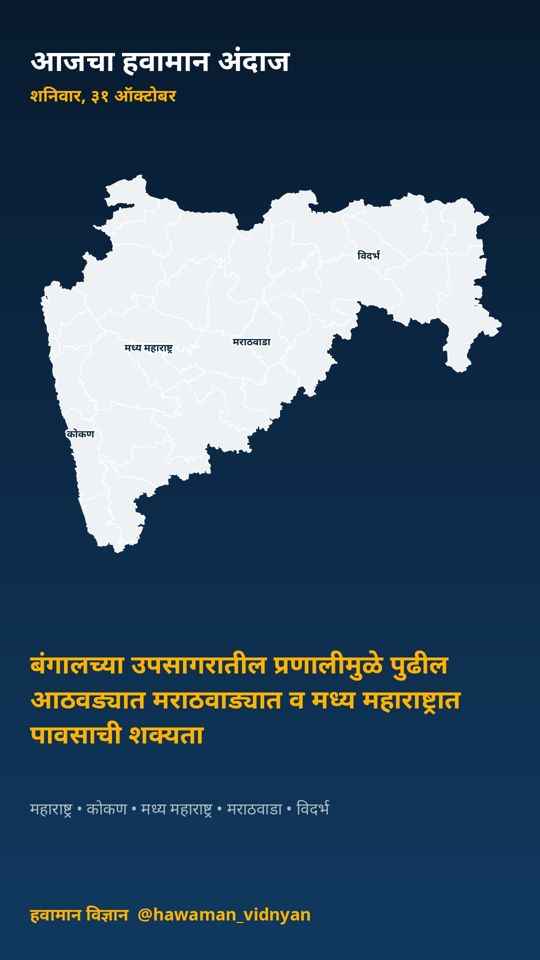
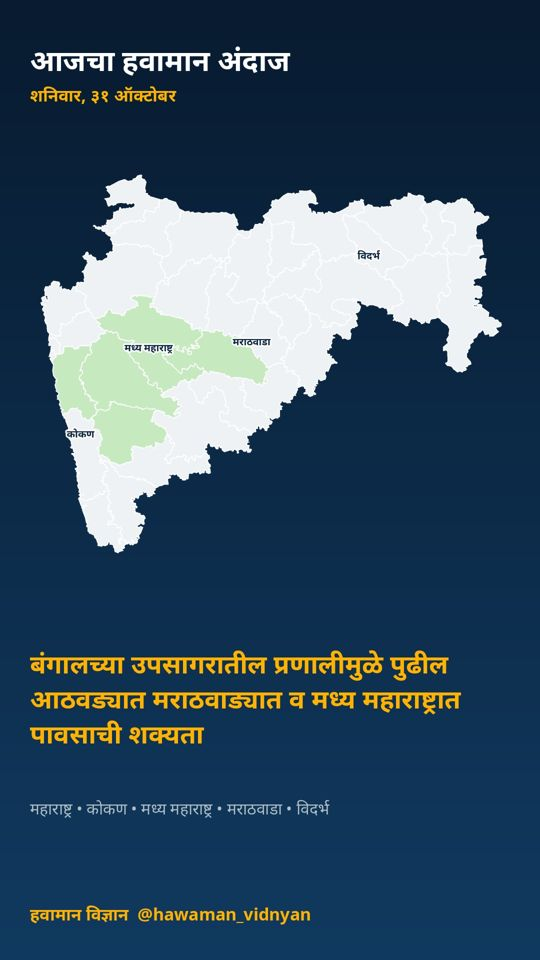
Alert 2026-10-31 (hawaman-vidnyan)

Changed region(s): [[0.0889, 0.3125, 0.5037, 0.5]]

diff --git a/docs/alerts/2026-10-31-hawaman/index.html b/docs/alerts/2026-10-31-hawaman/index.html
@@ -11,12 +11,12 @@
       if (l === 'mr') document.documentElement.lang = 'mr';
     })();
   </script>
-  <title data-mr="पुढील आठवडा (२–८ नोव्हें) | महाराष्ट्र — हवामान इशारा">पुढील आठवडा (२–८ नोव्हें) | महाराष्ट्र — Weather alert</title>
-  <meta name="description" content="Information analysis: पुढील आठवडा (२–८ नोव्हें) | महाराष्ट्र (31 October 2026)">
+  <title data-mr="पुढील आठवडा (३–९ नोव्हें) | महाराष्ट्र — हवामान इशारा">पुढील आठवडा (३–९ नोव्हें) | महाराष्ट्र — Weather alert</title>
+  <meta name="description" content="Information analysis: पुढील आठवडा (३–९ नोव्हें) | महाराष्ट्र (31 October 2026)">
   <link rel="preconnect" href="https://fonts.googleapis.com">
   <link rel="preconnect" href="https://fonts.gstatic.com" crossorigin>
   <link href="https://fonts.googleapis.com/css2?family=Mukta:wght@400;500;600;700&family=Noto+Serif+Devanagari:wght@600;700&display=swap" rel="stylesheet">
-  <link rel="stylesheet" href="../../static/css/style.css?v=fa6833a0">
+  <link rel="stylesheet" href="../../static/css/style.css?v=35c2c467">
 </head>
 <body>
   <header class="site-header">
@@ -47,7 +47,7 @@
   <p class="muted"><a href="../../alerts/index.html"><span class="l-en">← All alerts</span><span class="l-mr" lang="mr">← सर्व इशारे</span></a></p>
   <div class="alert-banner level-info">
     <span class="badge badge-info"><span class="l-en">Information · analysis</span><span class="l-mr" lang="mr">माहितीपर विश्लेषण</span></span>
-    <h1>पुढील आठवडा (२–८ नोव्हें) | महाराष्ट्र</h1>
+    <h1>पुढील आठवडा (३–९ नोव्हें) | महाराष्ट्र</h1>
     <dl class="alert-facts">
       <div><dt><span class="l-en">Date</span><span class="l-mr" lang="mr">दिनांक</span></dt><dd><time datetime="2026-10-31"><span class="l-en">Saturday, 31 October 2026</span><span class="l-mr" lang="mr">शनिवार, ३१ ऑक्टोबर २०२६</span></time></dd></div>
 <div><dt><span class="l-en">Valid</span><span class="l-mr" lang="mr">वैधता</span></dt><dd><span class="l-en">31 October 2026 — Medium-range analysis (4–10 days)</span><span class="l-mr" lang="mr">३१ ऑक्टोबर २०२६ — मध्यम कालावधी विश्लेषण (४–१० दिवस)</span></dd></div><div><dt><span class="l-en">Districts / regions</span><span class="l-mr" lang="mr">जिल्हे/भाग</span></dt><dd><span class="l-en">Konkan</span><span class="l-mr" lang="mr">कोकण</span>, <span class="l-en">Madhya Maharashtra</span><span class="l-mr" lang="mr">मध्य महाराष्ट्र</span>, <span class="l-en">Marathwada</span><span class="l-mr" lang="mr">मराठवाडा</span>, <span class="l-en">Vidarbha</span><span class="l-mr" lang="mr">विदर्भ</span></dd></div>    </dl>
@@ -101,30 +101,29 @@
 </details>  </section>
   <p class="lang-note l-en">This page is written in Marathi.</p><div class="prose" lang="mr"><p><strong>मध्यम कालावधी विश्लेषण (४–१० दिवस)</strong> · वैयक्तिक विश्लेषणावर आधारित</p>
 <p>☔ पावसाची शक्यता:<br />
-🌧 कोकण: अधिक<br />
-🌧 म. महाराष्ट्र: अधिक<br />
-🌧 मराठवाडा: खूप अधिक<br />
-🌧 विदर्भ: अधिक<br />
-🌀 २ नोव्हें रोजी पश्चिम-मध्य बंगालच्या उपसागरात असलेली तीव्र कमी दाबाचे क्षेत्र वायव्येकडे सरकण्याची शक्यता</p>
+🌦 कोकण: मध्यम<br />
+🌦 म. महाराष्ट्र: मध्यम<br />
+🌧 मराठवाडा: अधिक<br />
+🌦 विदर्भ: मध्यम<br />
+🌀 ३ नोव्हें रोजी पश्चिम-मध्य बंगालच्या उपसागरात असलेली चक्रीवादळसदृश प्रणाली पश्चिमेकडे सरकण्याची शक्यता</p>
 <p><img src="../../static/images/alerts/2026-10-31/1_card.jpg" alt="मध्यम कालावधी विश्लेषण (४–१० दिवस)" /></p>
 <h3>हवामानामागचे कारण</h3>
-<p>🌀 वाऱ्यांची स्थिती व कारणमीमांसा:</p>
-<p>• २ नोव्हें रोजी पश्चिम-मध्य बंगालच्या उपसागरात असलेली तीव्र कमी दाबाचे क्षेत्र (डिप्रेशन) वायव्येकडे (महाराष्ट्र) सरकण्याची शक्यता (मॉडेल संकेत; IMD च्या अधिकृत माहितीकडे लक्ष ठेवा). या प्रणालीमुळे राज्यात ढगाळ हवामान व पावसाची शक्यता वाढू शकते</p>
-<p>• पूर्व-मध्य अरबी समुद्रात ५ नोव्हें दरम्यान कमी दाबाचे क्षेत्र तयार होण्याचे संकेत; प्रणाली वायव्येकडे (ईशान्य अरबी समुद्र) सरकण्याची शक्यता<br />
-• महाराष्ट्रावर सुमारे १.५ किमी उंचीवर ईशान्येकडून वारे<br />
+<p>🌀 वाऱ्यांची स्थिती व कारणमीमांसा:<br />
+• ३ नोव्हें रोजी पश्चिम-मध्य बंगालच्या उपसागरात असलेली चक्रीवादळसदृश प्रणाली पश्चिमेकडे (महाराष्ट्र) सरकण्याची शक्यता (मॉडेल संकेत; IMD च्या अधिकृत माहितीकडे लक्ष ठेवा). या प्रणालीमुळे राज्यात ढगाळ हवामान व पावसाची शक्यता वाढू शकते</p>
+<p>• महाराष्ट्रावर सुमारे १.५ किमी उंचीवर ईशान्येकडून कोरडे वारे; हवेच्या मधल्या थरात आर्द्रता फक्त ४३% असल्याने ढग फारसे तयार होत नाहीत<br />
 • पुढील काळात हवेच्या मधल्या थरातील बाष्प कमी होत आहे</p>
 <p>📌 अधिक तपशील:<br />
-🌡 तापमानात विशेष बदल नाही</p>
+🌡 किमान तापमान १° ने घटेल; पहाटे गारवा वाढेल</p>
 <p>ℹ स्रोत: युरोपियन (ECMWF) ५१-सदस्यीय एन्सेम्बल<br />
 ⚠ हे मॉडेल-आधारित विश्लेषण आहे. अधिकृत इशाऱ्यांसाठी भारतीय हवामान विभाग (IMD) व स्थानिक प्रशासनाच्या सूचना पाहा.</p>
 <p><img src="../../static/images/alerts/2026-10-31/2_circulation_chart.jpg" alt="वाऱ्यांची स्थिती व दाब प्रणाली" /></p>
 <h2>सविस्तर हवामान विश्लेषण</h2>
 <h3>अल्पकालीन विश्लेषण (१–३ दिवस)</h3>
-<p>नमस्कार! आज शनिवार, ३१ ऑक्टोबर. पाहूया महाराष्ट्राचे हवामान विश्लेषण. कोकण: कोरडे हवामान. कमाल तापमान सुमारे ३४ आणि किमान २२ अंश सेल्सिअस. मध्य महाराष्ट्र: कोरडे हवामान. कमाल तापमान सुमारे ३३ आणि किमान २१ अंश सेल्सिअस. मराठवाडा: कोरडे हवामान. कमाल तापमान सुमारे ३२ आणि किमान २० अंश सेल्सिअस. विदर्भ: कोरडे हवामान. कमाल तापमान सुमारे ३१ आणि किमान २१ अंश सेल्सिअस. आता पाहूया हवामानामागचे कारण, म्हणजेच वाऱ्यांची स्थिती. अंदमान समुद्रात कमी दाबाचे क्षेत्र आहे; ते तीव्र कमी दाबाचे क्षेत्र (डिप्रेशन) म्हणून तीव्र होण्याचे संकेत; प्रणाली पश्चिमेकडे (पश्चिम-मध्य बंगालचा उपसागर) सरकण्याची शक्यता (मॉडेल संकेत; IMD च्या अधिकृत माहितीकडे लक्ष ठेवा). पूर्व-मध्य अरबी समुद्रात चक्राकार वाऱ्यांची स्थिती आहे; ते कमी दाबाचे क्षेत्र म्हणून तीव्र होण्याचे संकेत. मध्य भारतावर कमी दाबाचे क्षेत्र आहे; प्रणाली आग्नेयेकडे (पूर्व भारत) सरकण्याची शक्यता. महाराष्ट्रावर सुमारे १.५ किमी उंचीवर ईशान्येकडून वारे.</p>
+<p>नमस्कार! आज शनिवार, ३१ ऑक्टोबर. पाहूया महाराष्ट्राचे हवामान विश्लेषण. कोकण: तुरळक ठिकाणी हलका पाऊस. कमाल तापमान सुमारे ३३ आणि किमान २२ अंश सेल्सिअस. मध्य महाराष्ट्र: काही ठिकाणी हलका पाऊस. कमाल तापमान सुमारे ३२ आणि किमान २० अंश सेल्सिअस. मराठवाडा: तुरळक ठिकाणी हलका पाऊस. कमाल तापमान सुमारे ३२ आणि किमान २१ अंश सेल्सिअस. विदर्भ: कोरडे हवामान. कमाल तापमान सुमारे ३१ आणि किमान २० अंश सेल्सिअस. आता पाहूया हवामानामागचे कारण, म्हणजेच वाऱ्यांची स्थिती. आग्नेय बंगालच्या उपसागरात कमी दाबाचे क्षेत्र आहे; ते चक्रीवादळसदृश प्रणाली म्हणून तीव्र होण्याचे संकेत; प्रणाली वायव्येकडे (पश्चिम-मध्य बंगालचा उपसागर) सरकण्याची शक्यता (मॉडेल संकेत; IMD च्या अधिकृत माहितीकडे लक्ष ठेवा). आग्नेय अरबी समुद्रात ३१ ऑक्टो दरम्यान कमी दाबाचे क्षेत्र तयार होण्याचे संकेत; प्रणाली पश्चिमेकडे (पश्चिम-मध्य अरबी समुद्र) सरकण्याची शक्यता. महाराष्ट्रावर सुमारे १.५ किमी उंचीवर पूर्वेकडून वारे.</p>
 <h3>मध्यम कालावधी विश्लेषण (४–१० दिवस)</h3>
-<p>आता पुढील आठवड्याचा, म्हणजे २–८ नोव्हें या काळाचे विश्लेषण. युरोपियन हवामान केंद्राच्या ५१ वेगवेगळ्या संभाव्य मॉडेल-परिणामांवर आधारित. कोकण: पावसाची शक्यता अधिक (२ नोव्हें जास्त). मध्य महाराष्ट्र: पावसाची शक्यता अधिक (२ नोव्हें जास्त). मराठवाडा: पावसाची शक्यता खूप अधिक (३ नोव्हें जास्त). विदर्भ: पावसाची शक्यता अधिक (३ नोव्हें जास्त).  तापमानात विशेष बदल नाही. या काळातील वाऱ्यांची स्थिती: २ नोव्हें रोजी पश्चिम-मध्य बंगालच्या उपसागरात असलेली तीव्र कमी दाबाचे क्षेत्र (डिप्रेशन) वायव्येकडे (महाराष्ट्र) सरकण्याची शक्यता (मॉडेल संकेत; IMD च्या अधिकृत माहितीकडे लक्ष ठेवा). या प्रणालीमुळे राज्यात ढगाळ हवामान व पावसाची शक्यता वाढू शकते. पूर्व-मध्य अरबी समुद्रात ५ नोव्हें दरम्यान कमी दाबाचे क्षेत्र तयार होण्याचे संकेत; प्रणाली वायव्येकडे (ईशान्य अरबी समुद्र) सरकण्याची शक्यता. महाराष्ट्रावर सुमारे १.५ किमी उंचीवर ईशान्येकडून वारे. पुढील काळात हवेच्या मधल्या थरातील बाष्प कमी होत आहे.</p>
+<p>आता पुढील आठवड्याचा, म्हणजे ३–९ नोव्हें या काळाचे विश्लेषण. युरोपियन हवामान केंद्राच्या ५१ वेगवेगळ्या संभाव्य मॉडेल-परिणामांवर आधारित. कोकण: पावसाची शक्यता मध्यम (३ नोव्हें जास्त). मध्य महाराष्ट्र: पावसाची शक्यता मध्यम (३ नोव्हें जास्त). मराठवाडा: पावसाची शक्यता अधिक (३ नोव्हें जास्त). विदर्भ: पावसाची शक्यता मध्यम (४ नोव्हें जास्त).  किमान तापमान १° ने घटेल; पहाटे गारवा वाढेल. या काळातील वाऱ्यांची स्थिती: ३ नोव्हें रोजी पश्चिम-मध्य बंगालच्या उपसागरात असलेली चक्रीवादळसदृश प्रणाली पश्चिमेकडे (महाराष्ट्र) सरकण्याची शक्यता (मॉडेल संकेत; IMD च्या अधिकृत माहितीकडे लक्ष ठेवा). या प्रणालीमुळे राज्यात ढगाळ हवामान व पावसाची शक्यता वाढू शकते. महाराष्ट्रावर सुमारे १.५ किमी उंचीवर ईशान्येकडून कोरडे वारे; हवेच्या मधल्या थरात आर्द्रता फक्त ४३% असल्याने ढग फारसे तयार होत नाहीत. पुढील काळात हवेच्या मधल्या थरातील बाष्प कमी होत आहे.</p>
 <h3>विस्तारित विश्लेषण (२–४ आठवडे)</h3>
-<p>आता पुढील तीन आठवड्यांचा विस्तारित विश्लेषण. आठवडा १, २–८ नोव्हें: म. महाराष्ट्र, मराठवाडा, विदर्भ: पाऊस जास्त. तापमान सरासरीपेक्षा १.५ अंश जास्त राहण्याची शक्यता. आठवडा २, ९–१५ नोव्हें: राज्यभर पाऊस सरासरीपेक्षा कमी. तापमान सरासरीपेक्षा ०.७ अंश जास्त राहण्याची शक्यता. आठवडा ३, १६–२२ नोव्हें: पाऊस सरासरीइतका. तापमान सरासरीपेक्षा १.० अंश जास्त राहण्याची शक्यता. वाऱ्यांचा प्रवाह: ६–१३ नोव्हें: महाराष्ट्रावर ईशान्येकडून वारे कायम (५१ पैकी ५१ सदस्य); पूर्व/ईशान्येकडील वारे सहसा कोरडे हवामान आणतात. भारतीय हवामान विभाग व आयआयटीएम पुणे यांचे विस्तारित कालावधी नकाशेही हेच संकेत तपासण्यासाठी पाहा.</p>
+<p>आता पुढील तीन आठवड्यांचा विस्तारित विश्लेषण. आठवडा १, २–८ नोव्हें: कोकण, म. महाराष्ट्र, मराठवाडा: पाऊस जास्त. तापमान सरासरीपेक्षा १.३ अंश जास्त राहण्याची शक्यता. आठवडा २, ९–१५ नोव्हें: राज्यभर पाऊस सरासरीपेक्षा कमी. तापमान सरासरीपेक्षा ०.७ अंश जास्त राहण्याची शक्यता. आठवडा ३, १६–२२ नोव्हें: पाऊस सरासरीइतका. तापमान सरासरीपेक्षा १.१ अंश जास्त राहण्याची शक्यता. वाऱ्यांचा प्रवाह: ७–१४ नोव्हें: महाराष्ट्रावर ईशान्येकडून वारे कायम (५१ पैकी ५१ सदस्य); पूर्व/ईशान्येकडील वारे सहसा कोरडे हवामान आणतात. भारतीय हवामान विभाग व आयआयटीएम पुणे यांचे विस्तारित कालावधी नकाशेही हेच संकेत तपासण्यासाठी पाहा.</p>
 <h3>हंगामी विश्लेषण (१–३ महिने)</h3>
 <p>आता नोव्हेंबर ते जानेवारी या हंगामाचा दीर्घकालीन विश्लेषण. नोव्हेंबर: तापमान सरासरीपेक्षा बरेच जास्त, सुमारे +२.५ अंश; पाऊस सरासरीइतका. डिसेंबर: तापमान सरासरीपेक्षा बरेच जास्त, सुमारे +२.३ अंश; पाऊस सरासरीइतका. जानेवारी: तापमान सरासरीपेक्षा बरेच जास्त, सुमारे +२.१ अंश; पाऊस सरासरीइतका. प्रशांत महासागरात तीव्र एल निनो (नीनो-३.४: +३.४°से); तो अजून बळकट होत आहे. एल निनोमुळे येणारा हिवाळा सहसा उबदार; थंडीच्या लाटा कमी.</p>
 <p>हे मॉडेल-आधारित विश्लेषण आहे. अधिकृत इशाऱ्यांसाठी भारतीय हवामान विभाग (IMD) व स्थानिक प्रशासनाच्या सूचना पाहा.</p>

diff --git a/docs/index.html b/docs/index.html
@@ -16,7 +16,7 @@
   <link rel="preconnect" href="https://fonts.googleapis.com">
   <link rel="preconnect" href="https://fonts.gstatic.com" crossorigin>
   <link href="https://fonts.googleapis.com/css2?family=Mukta:wght@400;500;600;700&family=Noto+Serif+Devanagari:wght@600;700&display=swap" rel="stylesheet">
-  <link rel="stylesheet" href="./static/css/style.css?v=fa6833a0">
+  <link rel="stylesheet" href="./static/css/style.css?v=35c2c467">
 </head>
 <body>
   <header class="site-header">
@@ -45,7 +45,7 @@
   <main class="wrap main">
 <section class="hero">
   <div class="hero-photo">
-    <img src="./static/images/profile.jpg?v=fa6833a0" alt="Arvind Pagire" width="200" height="200">
+    <img src="./static/images/profile.jpg?v=35c2c467" alt="Arvind Pagire" width="200" height="200">
   </div>
   <div class="hero-text">
     <p class="eyebrow"><span class="l-en">Meteorologist · AI-based weather prediction · Hybrid modelling</span><span class="l-mr" lang="mr">हवामानशास्त्रज्ञ · AI-आधारित हवामान अंदाज · हायब्रिड मॉडेलिंग</span></p>
@@ -78,7 +78,7 @@
     <span class="badge badge-info"><span class="l-en">Information · analysis</span><span class="l-mr" lang="mr">माहितीपर विश्लेषण</span></span>
     <time datetime="2026-10-31" class="muted"><span class="l-en">Saturday, 31 October 2026</span><span class="l-mr" lang="mr">शनिवार, ३१ ऑक्टोबर २०२६</span></time>
   </div>
-  <h3><a href="./alerts/2026-10-31-hawaman/index.html">पुढील आठवडा (२–८ नोव्हें) | महाराष्ट्र</a></h3>
+  <h3><a href="./alerts/2026-10-31-hawaman/index.html">पुढील आठवडा (३–९ नोव्हें) | महाराष्ट्र</a></h3>
 <p class="alert-meta"><strong><span class="l-en">Districts / regions:</span><span class="l-mr" lang="mr">जिल्हे/भाग:</span></strong> <span class="l-en">Konkan</span><span class="l-mr" lang="mr">कोकण</span>, <span class="l-en">Madhya Maharashtra</span><span class="l-mr" lang="mr">मध्य महाराष्ट्र</span>, <span class="l-en">Marathwada</span><span class="l-mr" lang="mr">मराठवाडा</span>, <span class="l-en">Vidarbha</span><span class="l-mr" lang="mr">विदर्भ</span></p><p class="alert-meta"><strong><span class="l-en">Valid:</span><span class="l-mr" lang="mr">वैधता:</span></strong> <span class="l-en">31 October 2026 — Medium-range analysis (4–10 days)</span><span class="l-mr" lang="mr">३१ ऑक्टोबर २०२६ — मध्यम कालावधी विश्लेषण (४–१० दिवस)</span></p></article>
     <p class="stale-note muted" data-date="2026-10-31" hidden>
       <span class="l-en">Note: this alert is from 31 October 2026; today&#39;s alert has not been published yet.</span><span class="l-mr" lang="mr">टीप: हा इशारा ३१ ऑक्टोबर २०२६ रोजीचा आहे; आजचा इशारा अद्याप प्रसिद्ध झालेला नाही.</span></p>

diff --git a/docs/alerts/index.html b/docs/alerts/index.html
@@ -16,7 +16,7 @@
   <link rel="preconnect" href="https://fonts.googleapis.com">
   <link rel="preconnect" href="https://fonts.gstatic.com" crossorigin>
   <link href="https://fonts.googleapis.com/css2?family=Mukta:wght@400;500;600;700&family=Noto+Serif+Devanagari:wght@600;700&display=swap" rel="stylesheet">
-  <link rel="stylesheet" href="../static/css/style.css?v=fa6833a0">
+  <link rel="stylesheet" href="../static/css/style.css?v=35c2c467">
 </head>
 <body>
   <header class="site-header">
@@ -63,7 +63,7 @@
     <span class="badge badge-info"><span class="l-en">Information · analysis</span><span class="l-mr" lang="mr">माहितीपर विश्लेषण</span></span>
     <time datetime="2026-10-31" class="muted"><span class="l-en">Saturday, 31 October 2026</span><span class="l-mr" lang="mr">शनिवार, ३१ ऑक्टोबर २०२६</span></time>
   </div>
-  <h3><a href="../alerts/2026-10-31-hawaman/index.html">पुढील आठवडा (२–८ नोव्हें) | महाराष्ट्र</a></h3>
+  <h3><a href="../alerts/2026-10-31-hawaman/index.html">पुढील आठवडा (३–९ नोव्हें) | महाराष्ट्र</a></h3>
 <p class="alert-meta"><strong><span class="l-en">Districts / regions:</span><span class="l-mr" lang="mr">जिल्हे/भाग:</span></strong> <span class="l-en">Konkan</span><span class="l-mr" lang="mr">कोकण</span>, <span class="l-en">Madhya Maharashtra</span><span class="l-mr" lang="mr">मध्य महाराष्ट्र</span>, <span class="l-en">Marathwada</span><span class="l-mr" lang="mr">मराठवाडा</span>, <span class="l-en">Vidarbha</span><span class="l-mr" lang="mr">विदर्भ</span></p><p class="alert-meta"><strong><span class="l-en">Valid:</span><span class="l-mr" lang="mr">वैधता:</span></strong> <span class="l-en">31 October 2026 — Medium-range analysis (4–10 days)</span><span class="l-mr" lang="mr">३१ ऑक्टोबर २०२६ — मध्यम कालावधी विश्लेषण (४–१० दिवस)</span></p></article><article class="alert-card level-yellow">
   <div class="alert-card-top">
     <span class="badge badge-yellow"><span class="l-en">Yellow alert · Be updated</span><span class="l-mr" lang="mr">पिवळा इशारा · अद्ययावत राहा</span></span>

diff --git a/docs/alerts/2026-10-25-hawaman/index.html b/docs/alerts/2026-10-25-hawaman/index.html
@@ -16,7 +16,7 @@
   <link rel="preconnect" href="https://fonts.googleapis.com">
   <link rel="preconnect" href="https://fonts.gstatic.com" crossorigin>
   <link href="https://fonts.googleapis.com/css2?family=Mukta:wght@400;500;600;700&family=Noto+Serif+Devanagari:wght@600;700&display=swap" rel="stylesheet">
-  <link rel="stylesheet" href="../../static/css/style.css?v=fa6833a0">
+  <link rel="stylesheet" href="../../static/css/style.css?v=35c2c467">
 </head>
 <body>
   <header class="site-header">

diff --git a/docs/alerts/2026-10-26-hawaman/index.html b/docs/alerts/2026-10-26-hawaman/index.html
@@ -16,7 +16,7 @@
   <link rel="preconnect" href="https://fonts.googleapis.com">
   <link rel="preconnect" href="https://fonts.gstatic.com" crossorigin>
   <link href="https://fonts.googleapis.com/css2?family=Mukta:wght@400;500;600;700&family=Noto+Serif+Devanagari:wght@600;700&display=swap" rel="stylesheet">
-  <link rel="stylesheet" href="../../static/css/style.css?v=fa6833a0">
+  <link rel="stylesheet" href="../../static/css/style.css?v=35c2c467">
 </head>
 <body>
   <header class="site-header">

diff --git a/docs/alerts/2026-10-27-hawaman/index.html b/docs/alerts/2026-10-27-hawaman/index.html
@@ -16,7 +16,7 @@
   <link rel="preconnect" href="https://fonts.googleapis.com">
   <link rel="preconnect" href="https://fonts.gstatic.com" crossorigin>
   <link href="https://fonts.googleapis.com/css2?family=Mukta:wght@400;500;600;700&family=Noto+Serif+Devanagari:wght@600;700&display=swap" rel="stylesheet">
-  <link rel="stylesheet" href="../../static/css/style.css?v=fa6833a0">
+  <link rel="stylesheet" href="../../static/css/style.css?v=35c2c467">
 </head>
 <body>
   <header class="site-header">

diff --git a/docs/alerts/2026-10-28-hawaman/index.html b/docs/alerts/2026-10-28-hawaman/index.html
@@ -16,7 +16,7 @@
   <link rel="preconnect" href="https://fonts.googleapis.com">
   <link rel="preconnect" href="https://fonts.gstatic.com" crossorigin>
   <link href="https://fonts.googleapis.com/css2?family=Mukta:wght@400;500;600;700&family=Noto+Serif+Devanagari:wght@600;700&display=swap" rel="stylesheet">
-  <link rel="stylesheet" href="../../static/css/style.css?v=fa6833a0">
+  <link rel="stylesheet" href="../../static/css/style.css?v=35c2c467">
 </head>
 <body>
   <header class="site-header">

diff --git a/docs/alerts/2026-10-29-hawaman/index.html b/docs/alerts/2026-10-29-hawaman/index.html
@@ -16,7 +16,7 @@
   <link rel="preconnect" href="https://fonts.googleapis.com">
   <link rel="preconnect" href="https://fonts.gstatic.com" crossorigin>
   <link href="https://fonts.googleapis.com/css2?family=Mukta:wght@400;500;600;700&family=Noto+Serif+Devanagari:wght@600;700&display=swap" rel="stylesheet">
-  <link rel="stylesheet" href="../../static/css/style.css?v=fa6833a0">
+  <link rel="stylesheet" href="../../static/css/style.css?v=35c2c467">
 </head>
 <body>
   <header class="site-header">

diff --git a/docs/alerts/2026-10-30-hawaman/index.html b/docs/alerts/2026-10-30-hawaman/index.html
@@ -16,7 +16,7 @@
   <link rel="preconnect" href="https://fonts.googleapis.com">
   <link rel="preconnect" href="https://fonts.gstatic.com" crossorigin>
   <link href="https://fonts.googleapis.com/css2?family=Mukta:wght@400;500;600;700&family=Noto+Serif+Devanagari:wght@600;700&display=swap" rel="stylesheet">
-  <link rel="stylesheet" href="../../static/css/style.css?v=fa6833a0">
+  <link rel="stylesheet" href="../../static/css/style.css?v=35c2c467">
 </head>
 <body>
   <header class="site-header">

diff --git a/docs/blog/2026-10-30-havaman-andajavishayi-manatla/index.html b/docs/blog/2026-10-30-havaman-andajavishayi-manatla/index.html
@@ -16,7 +16,7 @@
   <link rel="preconnect" href="https://fonts.googleapis.com">
   <link rel="preconnect" href="https://fonts.gstatic.com" crossorigin>
   <link href="https://fonts.googleapis.com/css2?family=Mukta:wght@400;500;600;700&family=Noto+Serif+Devanagari:wght@600;700&display=swap" rel="stylesheet">
-  <link rel="stylesheet" href="../../static/css/style.css?v=fa6833a0">
+  <link rel="stylesheet" href="../../static/css/style.css?v=35c2c467">
 </head>
 <body>
   <header class="site-header">

diff --git a/docs/contact/thanks/index.html b/docs/contact/thanks/index.html
@@ -16,7 +16,7 @@
   <link rel="preconnect" href="https://fonts.googleapis.com">
   <link rel="preconnect" href="https://fonts.gstatic.com" crossorigin>
   <link href="https://fonts.googleapis.com/css2?family=Mukta:wght@400;500;600;700&family=Noto+Serif+Devanagari:wght@600;700&display=swap" rel="stylesheet">
-  <link rel="stylesheet" href="../../static/css/style.css?v=fa6833a0">
+  <link rel="stylesheet" href="../../static/css/style.css?v=35c2c467">
 </head>
 <body>
   <header class="site-header">

diff --git a/docs/about/index.html b/docs/about/index.html
@@ -16,7 +16,7 @@
   <link rel="preconnect" href="https://fonts.googleapis.com">
   <link rel="preconnect" href="https://fonts.gstatic.com" crossorigin>
   <link href="https://fonts.googleapis.com/css2?family=Mukta:wght@400;500;600;700&family=Noto+Serif+Devanagari:wght@600;700&display=swap" rel="stylesheet">
-  <link rel="stylesheet" href="../static/css/style.css?v=fa6833a0">
+  <link rel="stylesheet" href="../static/css/style.css?v=35c2c467">
 </head>
 <body>
   <header class="site-header">
